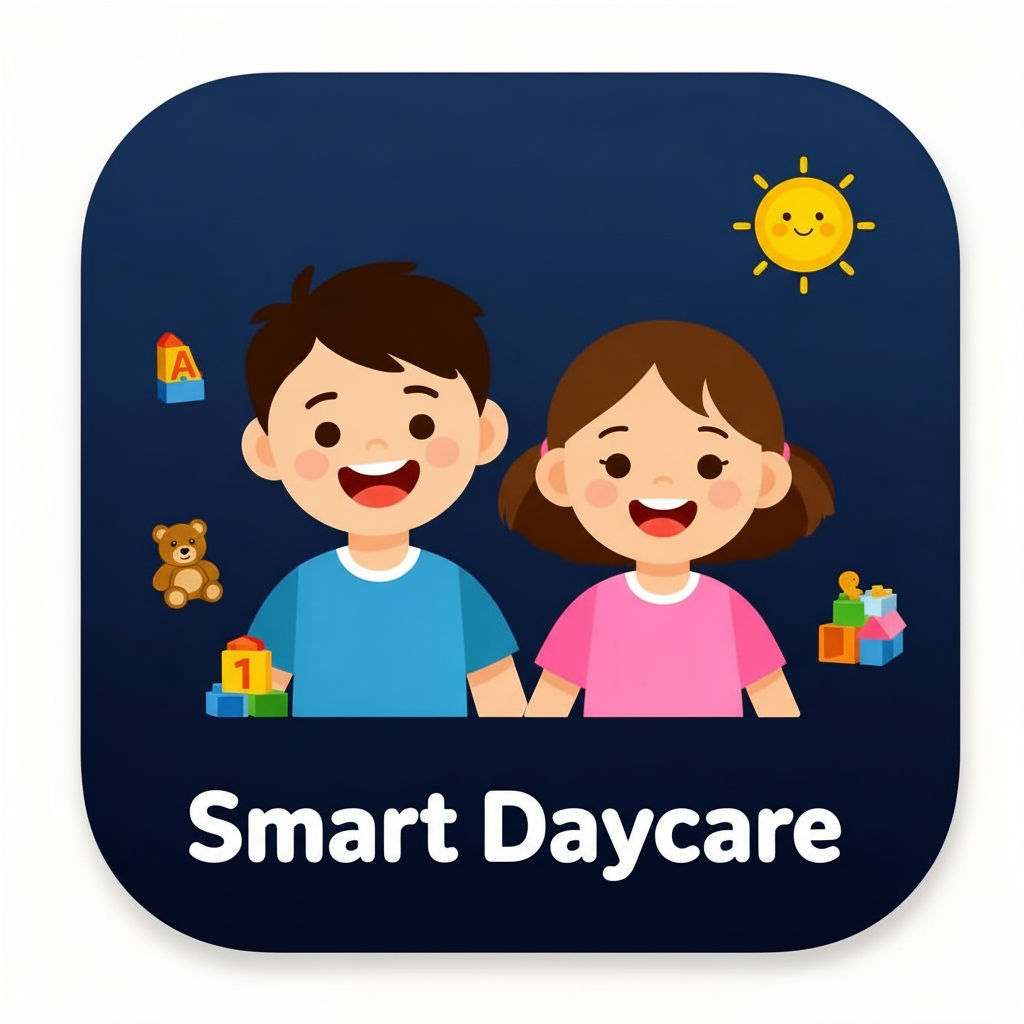
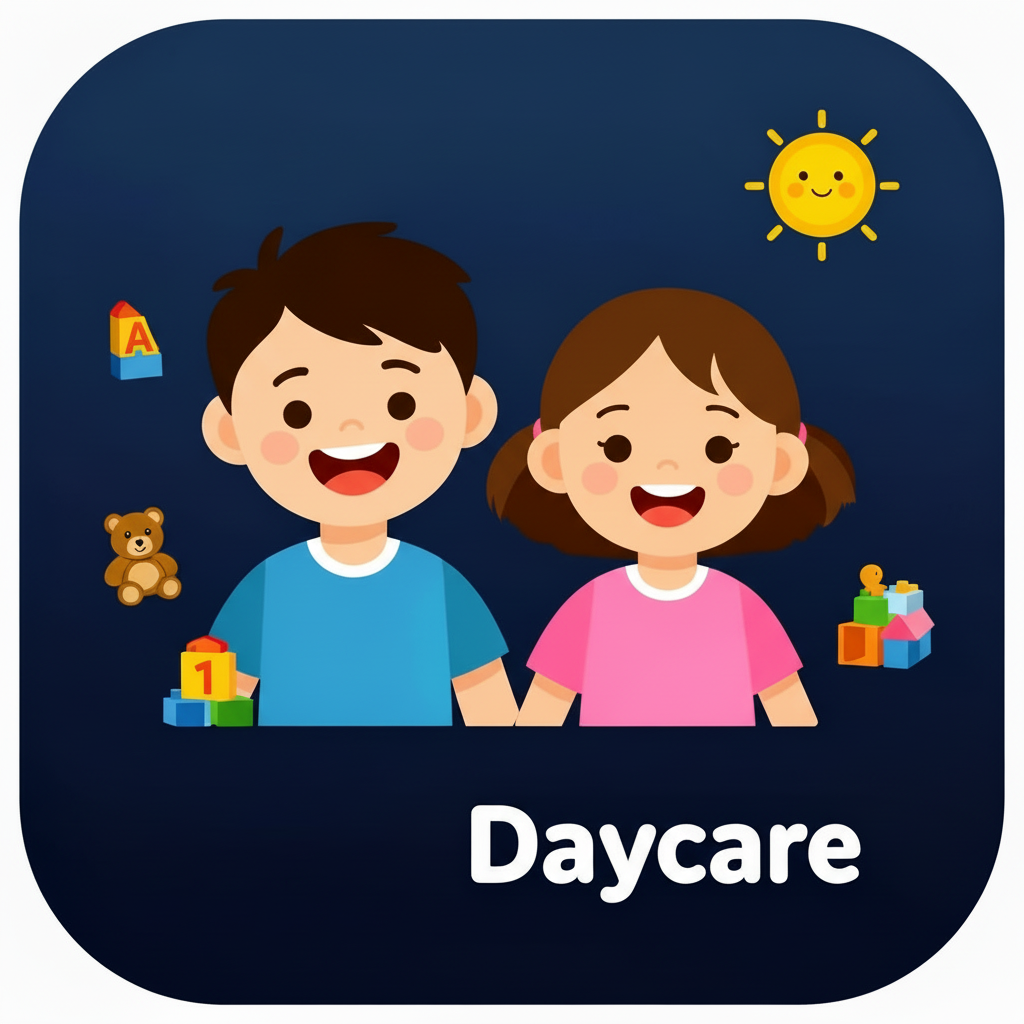
Changes

diff --git a/index.html b/index.html
@@ -3,14 +3,14 @@
   <head>
     <meta charset="UTF-8" />
     <meta name="viewport" content="width=device-width, initial-scale=1.0, maximum-scale=1.0, user-scalable=no" />
-    <title>Smart Daycare</title>
+    <title>Daycare</title>
     <meta name="description" content="Professional daycare management system for tracking children and payments" />
     <meta name="author" content="Daycare Management" />
     <meta name="theme-color" content="#1a1a2e" />
     <link rel="apple-touch-icon" href="/pwa-icon-192.png" />
     <link rel="icon" href="/pwa-icon-192.png" type="image/png" />
 
-    <meta property="og:title" content="Smart Daycare" />
+    <meta property="og:title" content="Daycare" />
     <meta property="og:description" content="Professional daycare management system for tracking children and payments" />
     <meta property="og:type" content="website" />
     <meta property="og:image" content="https://lovable.dev/opengraph-image-p98pqg.png" />

diff --git a/vite.config.ts b/vite.config.ts
@@ -31,8 +31,8 @@ export default defineConfig(({ mode }) => ({
         ],
       },
       manifest: {
-        name: "Smart Daycare",
-        short_name: "Smart Daycare",
+        name: "Daycare",
+        short_name: "Daycare",
         description: "Professional daycare management system for tracking children and payments",
         theme_color: "#1a1a2e",
         background_color: "#1a1a2e",
